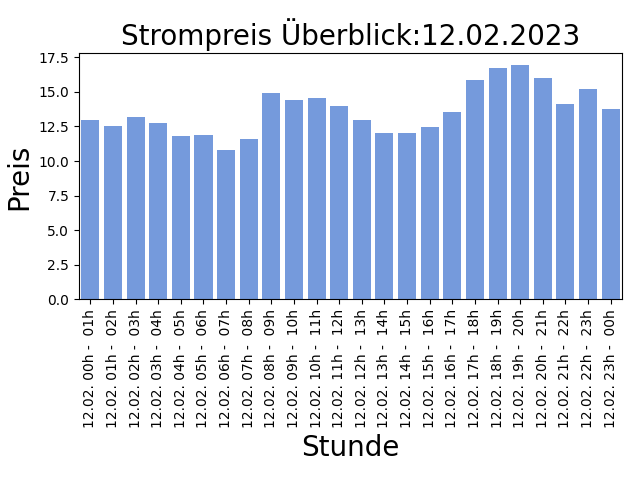
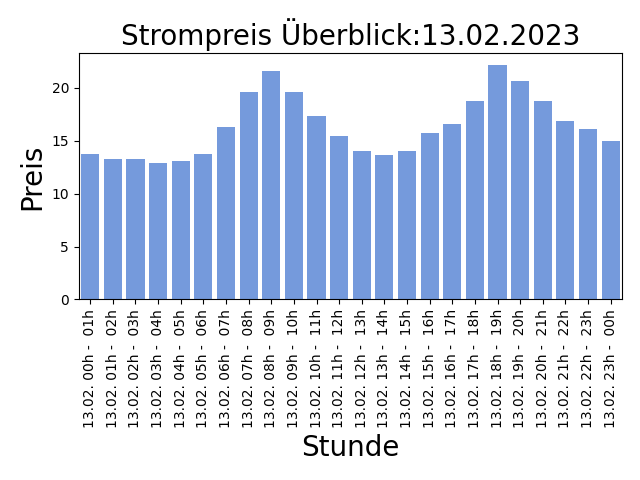
AUTOMATIC UPDATE PRICE LIST: 2023-02-12-14:30:07

diff --git a/README.md b/README.md
@@ -1,5 +1,5 @@
 
-## Strompreise für den 12.02.2023
+## Strompreise für den 13.02.2023
 
 Niedrige Preise deuten auf viel Sonnen und Windenergieerzeugung hin, ein hoher Anteil an erneuerbaren Energien bedeuted weniger CO2 Verbrauch!
 
@@ -7,31 +7,31 @@ Niedrige Preise deuten auf viel Sonnen und Windenergieerzeugung hin, ein hoher A
 
 | Stunde | Preis in Cent/kWh |
 |---|---|
-| 12.02. 00h -  01h | 12.972 | 
-| 12.02. 01h -  02h | 12.549 | 
-| 12.02. 02h -  03h | 13.178999999999998 | 
-| 12.02. 03h -  04h | 12.757 | 
-| 12.02. 04h -  05h | 11.846 | 
-| 12.02. 05h -  06h | 11.889 | 
-| **12.02. 06h -  07h** | **10.802** | 
-| 12.02. 07h -  08h | 11.617 | 
-| 12.02. 08h -  09h | 14.940000000000001 | 
-| 12.02. 09h -  10h | 14.427000000000001 | 
-| 12.02. 10h -  11h | 14.556000000000001 | 
-| 12.02. 11h -  12h | 14.007 | 
-| 12.02. 12h -  13h | 12.988999999999999 | 
-| 12.02. 13h -  14h | 12.0 | 
-| 12.02. 14h -  15h | 12.0 | 
-| 12.02. 15h -  16h | 12.463 | 
-| 12.02. 16h -  17h | 13.516 | 
-| 12.02. 17h -  18h | 15.854 | 
-| 12.02. 18h -  19h | 16.750999999999998 | 
-| 12.02. 19h -  20h | 16.949 | 
-| 12.02. 20h -  21h | 16.0 | 
-| 12.02. 21h -  22h | 14.088999999999999 | 
-| 12.02. 22h -  23h | 15.190999999999999 | 
-| 12.02. 23h -  00h | 13.797999999999998 | 
+| 13.02. 00h -  01h | 13.75 | 
+| 13.02. 01h -  02h | 13.268 | 
+| 13.02. 02h -  03h | 13.264 | 
+| **13.02. 03h -  04h** | **12.904** | 
+| 13.02. 04h -  05h | 13.084 | 
+| 13.02. 05h -  06h | 13.736 | 
+| 13.02. 06h -  07h | 16.319 | 
+| 13.02. 07h -  08h | 19.608 | 
+| 13.02. 08h -  09h | 21.587 | 
+| 13.02. 09h -  10h | 19.619999999999997 | 
+| 13.02. 10h -  11h | 17.335 | 
+| 13.02. 11h -  12h | 15.441999999999998 | 
+| 13.02. 12h -  13h | 14.0 | 
+| 13.02. 13h -  14h | 13.687000000000001 | 
+| 13.02. 14h -  15h | 14.0 | 
+| 13.02. 15h -  16h | 15.745 | 
+| 13.02. 16h -  17h | 16.606 | 
+| 13.02. 17h -  18h | 18.806 | 
+| 13.02. 18h -  19h | 22.18 | 
+| 13.02. 19h -  20h | 20.66 | 
+| 13.02. 20h -  21h | 18.786 | 
+| 13.02. 21h -  22h | 16.895 | 
+| 13.02. 22h -  23h | 16.097 | 
+| 13.02. 23h -  00h | 15.012 | 
 
 Preise der EPEX Spot ® Strombörse (neue Preise werden täglich um 14:00 veröffentlicht für den kompletten nächsten Tag).
 
-letzte Aktualisierung:11.02.2023 14:30
+letzte Aktualisierung:12.02.2023 14:30
